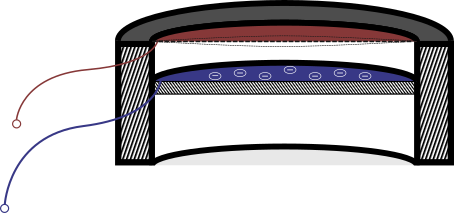
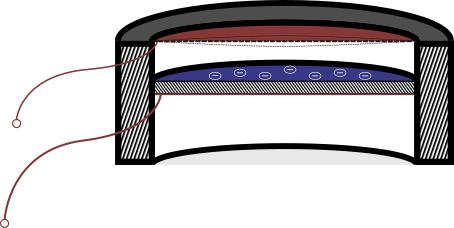
Transducer_2

Changed region(s): [[0.0, 0.0, 1.0, 0.8169], [0.0, 0.8169, 0.0308, 1.0], [0.5859, 0.0, 0.6784, 0.0282]]

diff --git a/_posts/2020-04-22-Microphone-3-Transducer2.md b/_posts/2020-04-22-Microphone-3-Transducer2.md
@@ -1,0 +1,69 @@
+---
+title: "Microphone-Transducer_2"
+date: 2020-04-22T15:34:30-04:00
+categories:
+  - blog
+tags:
+  - project
+  - microphone
+
+sidebar:
+layout: single
+
+---
+
+
+# Transducer post 2
+
+![Project_Breakdown]({{ site.url }}{{ site.baseurl }}/assets/images/Projects/Hobby/Mic/Schematic_Overview_Transducer.png){: .align-center}
+
+![Electret_X_Sect_JFET]({{ site.url }}{{ site.baseurl }}/assets/images/Projects/Hobby/Mic/Electret_Diagram_JFET_Pump3.png){: .align-center}
+
+For this discussion I am assuming all electret microphone modules are manufactured with a JFET manufactured in place. With that assumption out of the way, lets begin remind ourselves why we picked an electret microphone. First, they are very economical, to the degree where the cost is dominated by shipping if you are getting a small amount (<$1 each), and second, they are fairly high sensitivity. But, while they have decent sensitivity, it is typically lower than a externally polarized condenser (a "pure" condenser). 
+
+My first thought to ameliorate this shortcoming of sensitivity was to use an array of them, but that isn't a trivial question either. Do you put them in series or parallel? Will it help? Is it practical? If it works and is practical, how many will be needed?
+
+Back to the pump analogy! Lets say you have two of these pumps and you want more flow, but there is a limit on how much faster they can spin, what do you do? Well if they are in series, remember that the flow rate is wholly determined by the pumps rotation speed, so if one pump is spinning at 1000 RPM and the second pump is in series it _*must*_ spin at the same rate so that it doesn't fight the first pump. The amount of pressure generated by each pump is halved which poses some benefit, but it doesn't get more flow. In the example below it shows what happens if they are ideal pumps at different rates, in the proximal pump is too fast, it will pressurize the region between the pumps and potentially burst a pipe (more likely it will stall). If the proximal (first) pump is slower, then the region between the pumps will become very low pressure and potentially cavitate. 
+![Electret_X_Sect_JFET]({{ site.url }}{{ site.baseurl }}/assets/images/Projects/Hobby/Mic/JFET_Pump_Series_Parallel.png){: .align-center}
+
+Now, let's look at the case of parallel flows. If the pumps are both spinning at 1000 RPM and at that rate it pumps 1 liter per minute (arbitrary value), the net flow is 2 liters per minute. What is there is a slight mismatch, say because they were built to different specifications or there was noise in the control circuit? One pump now turns a bit too fast at 1100 RPM, and expels 1.1 liter per minute and the other is at 900 RPM and 0.9 LPM. The net flow is still 2 LPM, but no pipes burst or cavitated! Woohoo!
+
+![Electret_X_Sect_JFET]({{ site.url }}{{ site.baseurl }}/assets/images/Projects/Hobby/Mic/JFET_Pump_Series_Parallel2.png){: .align-center}
+
+
+Now that we have this mechanistic understanding, does it translate to circuits? For now I don't have the actual microphones so we need to live with LTSpice. In the series of screen shots below, the following can be observed: (i) when in series, the JFETS and resistor all carry the same current (are demanded by KCL). (ii) when in series, the Vout is the same as when there is only one JFET connected. (iii) When parallelized, current doubles through the resistor, and as a corollary the Vout doubled. 
+
+Looking at the case with only one JFET (the other is shunted to ground), Vout is ~1mV pk-pk/.
+
+![Electret_X_Sect_JFET]({{ site.url }}{{ site.baseurl }}/assets/images/Projects/Hobby/Mic/JFET_Sim_Only_One_Vout.png){: .align-center}
+
+If we add a second in series the voltage out doesn't substantially change.
+![Electret_X_Sect_JFET]({{ site.url }}{{ site.baseurl }}/assets/images/Projects/Hobby/Mic/JFET_Sim_Series_Vout.png){: .align-center}
+
+In parallel the voltage doubles.
+![Electret_X_Sect_JFET]({{ site.url }}{{ site.baseurl }}/assets/images/Projects/Hobby/Mic/JFET_Sim_Parallel_Vout.png){: .align-center}
+
+Below are the current scopes (they are over lapping in many cases).
+![Electret_X_Sect_JFET]({{ site.url }}{{ site.baseurl }}/assets/images/Projects/Hobby/Mic/JFET_Sim_Parallel.png){: .align-center}
+
+![Electret_X_Sect_JFET]({{ site.url }}{{ site.baseurl }}/assets/images/Projects/Hobby/Mic/JFET_Sim_Parallel2.png){: .align-center}
+
+![Electret_X_Sect_JFET]({{ site.url }}{{ site.baseurl }}/assets/images/Projects/Hobby/Mic/JFET_Sim_Series_Current.png){: .align-center}
+
+I'm not going to take screen shots for the noise measurements in LTSPice, but the syntax is ".noise V(Vout) V1 oct 100 100 100k" which means look at the nosie at Vout from V1 with 100 points per octave from 100Hz to 100kHz.
+
+When there is only one JFET:
+Noise is 4.56nV/sqrt(Hz) at the asymptote and signal was ~1mV so SNR for a 10kHz bandwidth, the SNR is 1mV / (4.56nV/sqrt(Hz)x sqrt(10kHz)) = ~2000
+
+With series JFETS noise is 3.8nV/sqrt(Hz)
+This gives an SNR of ~2600
+
+With JFETS in parallel, signal is now ~2mV pk-pk and noise is 5.75 nV/sqrt(Hz)
+This gives an SNR of ~3500. 
+
+This nearly exactly reflects the theoretical value of a sqrt(2), or a 1.4x improvement. The reason you would expect a sqrt(2) improvement is that the signal has doubled but a true (incoherent) noise will grow with the RMS of the amplitudes. So signal is 2x  and noise is (sqrt(N^2+N^2) where N is the noise figure of one JFET.
+
+The other subtlety of this is that the resistor value should, in practice, decrease in value so that the operating point stays the same throughout. 
+
+But alas, I'm getting tired. So, to summarize we can add these electret microphones in parallel, but the benefit quickly decays and quiescent current linearly rises which might have negative implications if it is battery powered. 
+

diff --git a/_posts/2020-04-19-Microphone-2-Transducer.md b/_posts/2020-04-19-Microphone-2-Transducer.md
@@ -34,15 +34,18 @@ Into the weeds we go! I drew up a simple figure to depict the cross-section of a
 * The top red semicircle represents the move-able diaphragm, as indicated by the dotted lines above and below the cut. This part is a very thin gold or nickel plated plastic and is exposed to oncoming sound waves. The plastic is often Mylar or other similar substrates. Not shown on this figure is a dust cover that will keep the very fragile diaphragm in tact. The metallized side is connected to a wire lead which connects to the pre-amplifier.
 * The next part is the blue charged plate. This plate is both stationary and has appreciable thickness. It is this plate that gives the electret the name "electret", because it is a permanently charged electrode. The etymology of the word, according to Wikipedia is a combination of "Electricity" and "Magnet", so "Electr"+"et". By permanent I mean *many* years before any degradation will occur due to the high resistivity of the material. Commonly this is Teflon. On the *bottom side* of the stationary electret is another gold or nickel film. I emphasize bottom because if it was on top there would be no charge between the conductors and it would no longer act as a charged capacitor. 
 * The two leads depicted in my figure are left open, but in most of the commercial capsules I have found, they are immediately attached to a JFET gate on one end and the ground reference on the other end. JFETs are a complicated topic, so that is for the next section. 
-![Electret_X_Sect_JFET]({{ site.url }}{{ site.baseurl }}/assets/images/Projects/Hobby/Mic/Electret_Diagram_JFET_Pump2.png){: .align-center}
+![Electret_X_Sect_JFET]({{ site.url }}{{ site.baseurl }}/assets/images/Projects/Hobby/Mic/Electret_Diagram_JFET_Pump3.png){: .align-center}
 ## Brief aside on JFETs
-This new figure above includes a valve as an analogy for the JFET, but if you are already an expert you can probably skip this so you don't get bogged down by this imperfect comparison. 
+This new figure above includes a gear pump ("PD Pump" = Positive displacement pump) as an analogy for the JFET, but if you are already familiar with these you can probably skip this, because it certainly isn't a perfect comparison. 
 
-With that caveat out of the way, lets discuss JFETs conceptually and what we need to know for now. In the commonly applied arrangement, these JFET work through "trans-conductance". This means that when an _external voltage_ is applied the _current_ changes proportionally. In my analogy, the external voltage is from the two microphone leads and this voltage will either *slightly* close or open the valve. By closing the valve the amount of water flow will change and that is reflected by the flow sensor I drew, and the restriction would be the load resistor which is normally 2.2kOhms or so. Without any charge, the valve will naturally be mostly open so current/ water will flow-- this represents the roughly 500microAmps that flow whenever the microphone is powered up.
+With that caveat out of the way, lets discuss JFETs conceptually and what we need to know for now. In the commonly applied arrangement, these JFET work through "trans-conductance". This means that when an _external voltage_ is applied the _current_ changes proportionally. In my analogy, the external voltage is from the two microphone leads and this voltage will either *slightly* speed up or slow down the pump. By slowing the pump the amount of water flow will change in direct proportion and that is reflected by the flow sensor I drew, and the restriction would be the load resistor which is normally 2.2kOhms or so. The analogy is strained because without any charge, the JFET will naturally be mostly open so current/ water will flow. In practice the JFET found in electret microphones generally allows roughly 500microAmps to flow whenever the microphone is powered up.
 
-Now let me reiterate the fact that this model isn't perfect, but it mechanistically represents how most of the components go together. Having this mechanistic understanding will really help out when the questions arise such as can these microphones be attached in series or parallel, and what the implications are. 
+Now let me reiterate the fact that this model isn't perfect, but it mechanistically represents how most of the components go together. Having this mechanistic understanding will really help out when the questions arise such as can these microphones be attached in series or parallel, and what the implications are regarding noise. 
 
 
+### My previous attempts at making an analogy 
+
+If you look in the folder where the images are stored for this page (../assets/images/Projects/Hobby/Mic) you'll see there are a few versions behind the current. The biggest change is that I really didn't like my valve analogy-- in one sense it is a lot more accurate because inside a JFET it is a channel that gets narrower or wider which modulates the current, but on the other hand, if you did that with water the implications are a bit different. The PD pump really is a accurate current source analogy because it is for all intents and purposes (or "intensive purposes" depending on who you are) it is an infinite impedance. When a gear pump isn't turning it functions as a closed valve. When a gear pump is running, and presuming it doesn't break or run out of power, it will create any pressure needed to keep water flowing at its specified volume per turn. 
 
 # Sources!
 https://www.neumann.com/homestudio/en/what-is-a-condenser-microphone

diff --git a/_research/MP_Magnetometer.md b/_research/MP_Magnetometer.md
@@ -1,25 +1,18 @@
 ---
-title: "Spectroscopy/magetometry system"
-excerpt: "This is a SPION characterizing platform system from the MIT/MGH group"
+title: "Spectroscopy/magnetometer system"
+excerpt: "This is a device that characterizes magnetic nanoparticles"
 layout: single
 header:
   teaser: /assets/images/Projects/Engineering/MPI/MPS/System_Photo_1.jpg
 sidebar:
   - title: "Spectroscopy/magnetometry system"
     image: /assets/images/Projects/Engineering/MPI/MPS/System_Photo_1.jpg
-    image_alt: "System photo"
-    text: "System photo"
+
   - title: "Specifications"
-    text: "Drive amplitude up to 20mT, Bias amplitude up to 50mT"
-    text: "text2"
+    text: "Characterizes magnetization up to ~150mT"
+
   - title: "Funding"
     text: "This project was made possible by the following grant numbers: NIBIB U01EB025121 NIMH R24106053 and NSF GRFP 1122374"
-
-tags:
-  - SPION
-  - MPS
-  - Hardware
-  - MGH-MIT
     
 gallery:
   - url: /assets/images/Projects/Engineering/MPI/MPS/System_Photo_1.jpg
@@ -33,7 +26,10 @@ gallery:
     alt: "Sample magnetization curves with VivoTrax and OceanNano SPP-25-25"
 ---
 
-This is the "MPS" device developed by the MIT/MGH group which is intended to be a cheap and accesible platform for characterizing SPIONs. 
+This magnetometer was designed to satisfy the need of an accurate method to characterize magnetic nanoparticles without prohibitively expensive equipment. This project is still being developed , but right now, it is able to quantify the magnetization response of superparamagnetic iron oxide nanoparticles up to about 150mT (this value depends on which amplifier is used). It only takes up a few square feet on the wall (wall mounted), plugs into normal 120V outlets, and depending on what instrumentation you already have costs anywhere from $500-3000. 
+
+This project is included in the open-source magnetic particle imaging initiative (OS-MPI) and you can find all of the files below. 
+ 
 # [Link to Files](https://github.com/OS-MPI/MPS)
 # [Link to Wiki](https://github.com/OS-MPI/MPS/wiki)
 {% include gallery caption="This is a sample gallery to go along with this case study." %}

diff --git a/_research/Small_Bore_MPI.md b/_research/Small_Bore_MPI.md
@@ -1,7 +1,7 @@
 ---
-title: "Small-Bore Imager"
-excerpt: "This is a Small-bore, FFL-based MPI system from the MIT/MGH group"
-permalink: /MIT-MGH_SmallBore/
+title: "Small-Bore MPI imager"
+excerpt: "This is a magnetic particle imager designed for rat neuro-imaging"
+permalink: /MPI_Small_Bore/
 layout: single
 header:
   teaser: /assets/images/Projects/Engineering/MPI/SBI/SBI_V1.png
@@ -14,13 +14,7 @@ sidebar:
     text: "Gradient: 2.8T/m Bore ID: 50mm"
   - title: "Funding"
     text: "This project was made possible by the following grant numbers: NIBIB U01EB025121 NIMH R24106053 and NSF GRFP 1122374"
-
-tags:
-  - FFL
-  - Imager
-  - Hardware
-  - MGH-MIT
-    
+   
     
 gallery:
   - url: /assets/images/Projects/Engineering/MPI/SBI/Inside_Bore.png
@@ -34,8 +28,9 @@ gallery:
     alt: "Rotary union cutaway view"
 ---
 
-This is the FFL-based small bore imager developed by the MIT/MGH group. 
+This is a magnetic particle imaging system that I helped design and construct. If you are unfamiliar with MPI I'd recommend you check out my page on the basics of MPI [here](https://elimattingly22.github.io/MPI_Basics) , because I jump right into the details here (well eventually I will, I'm still setting up the site!). This project is part of the Open-source MPI initiative so the files are all available (links below). 
 # [Link to Files](https://github.com/OS-MPI/Small-Bore-Imager)
 # [Link to Wiki](https://github.com/OS-MPI/Small-Bore-Imager/wiki)
+# [Link to the OS-MPI page](https://os-mpi.github.io)
 
 {% include gallery caption="This is a set of representative rendering and images of the system" %}

diff --git a/_pages/research-archive.md b/_pages/research-archive.md
@@ -6,4 +6,4 @@ collection: research
 entries_layout: grid
 classes: wide
 ---
-This page contains a brief summary of the research projects that I have worked on. 
+Below is a list of projects that I have worked on. If you click on any of the images it will send you to a page dedicated to that project with further information. These were done as part of the Magnetic Resonance Physics and Instrumentation group, and you can see more about what the group has done [here](https://www.nmr.mgh.harvard.edu/lab/mr-pig).

diff --git a/_research/Magnet_Winding_Jig.md b/_research/Magnet_Winding_Jig.md
@@ -1,6 +1,6 @@
 ---
-title: "Winding Jig"
-excerpt: "A machine to help manufacture electromagnets"
+title: "Electromagnet winding Jig"
+excerpt: "A machine to help manufacture large electromagnets"
 layout: single
 header:
   teaser: /assets/images/Projects/Engineering/MPI/Winding/Jig_Image.png
